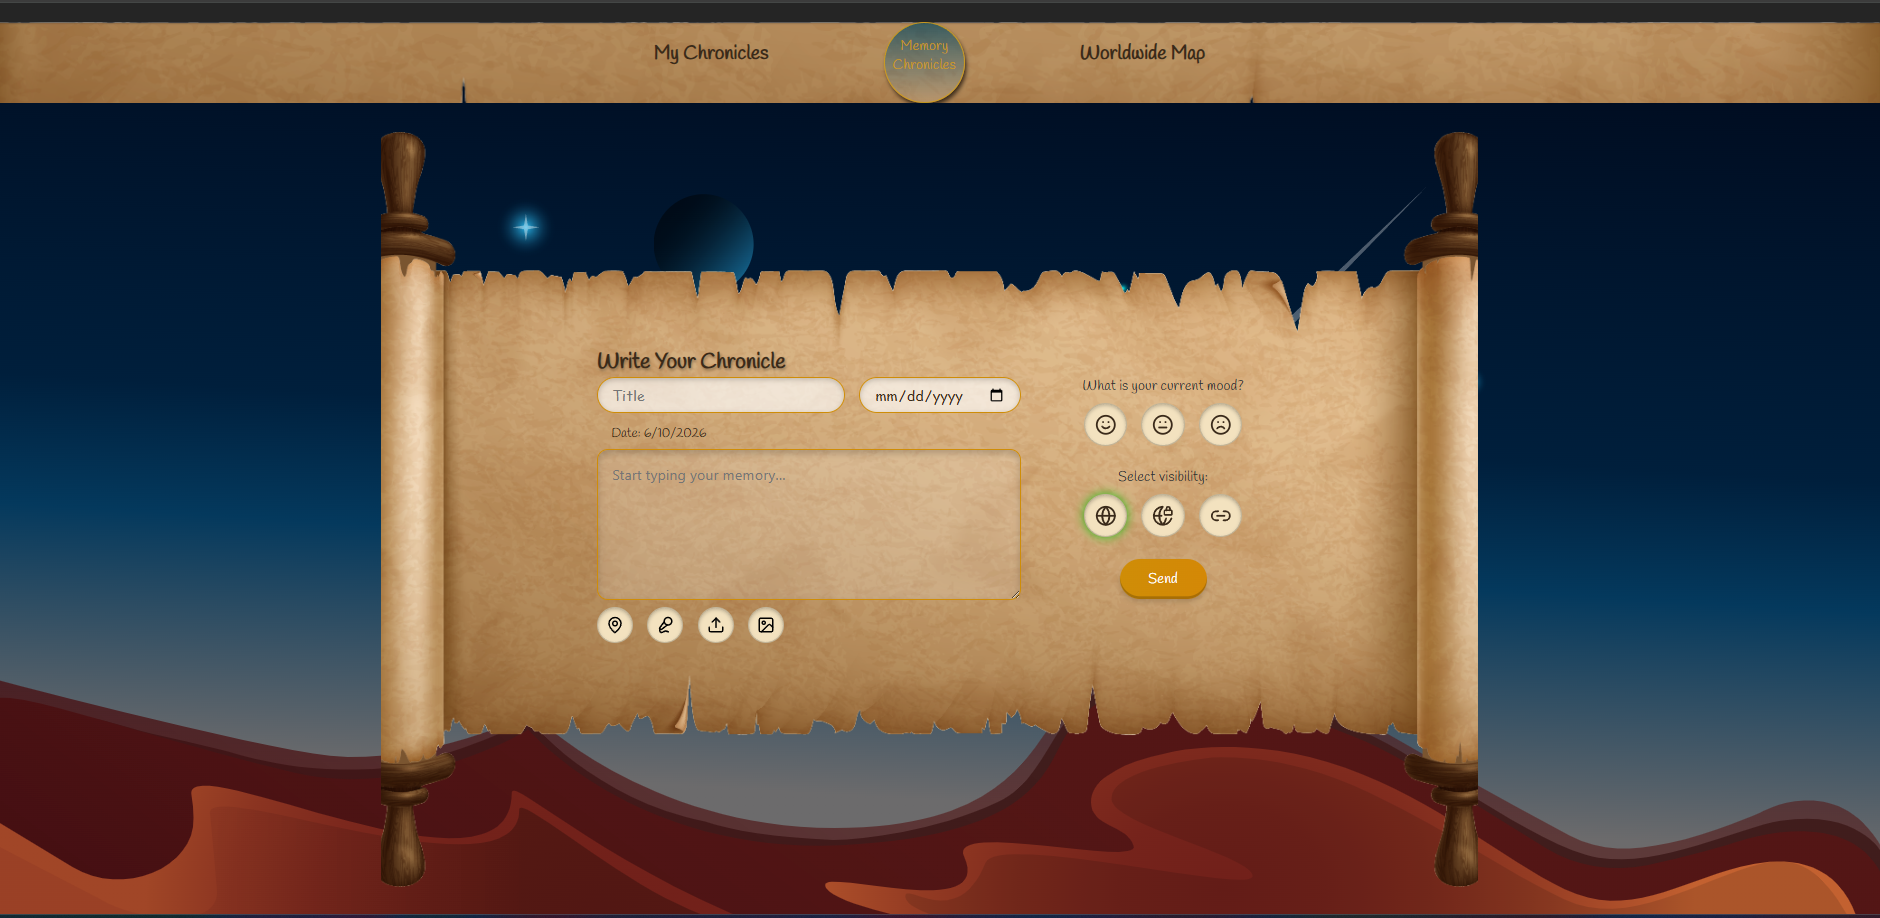
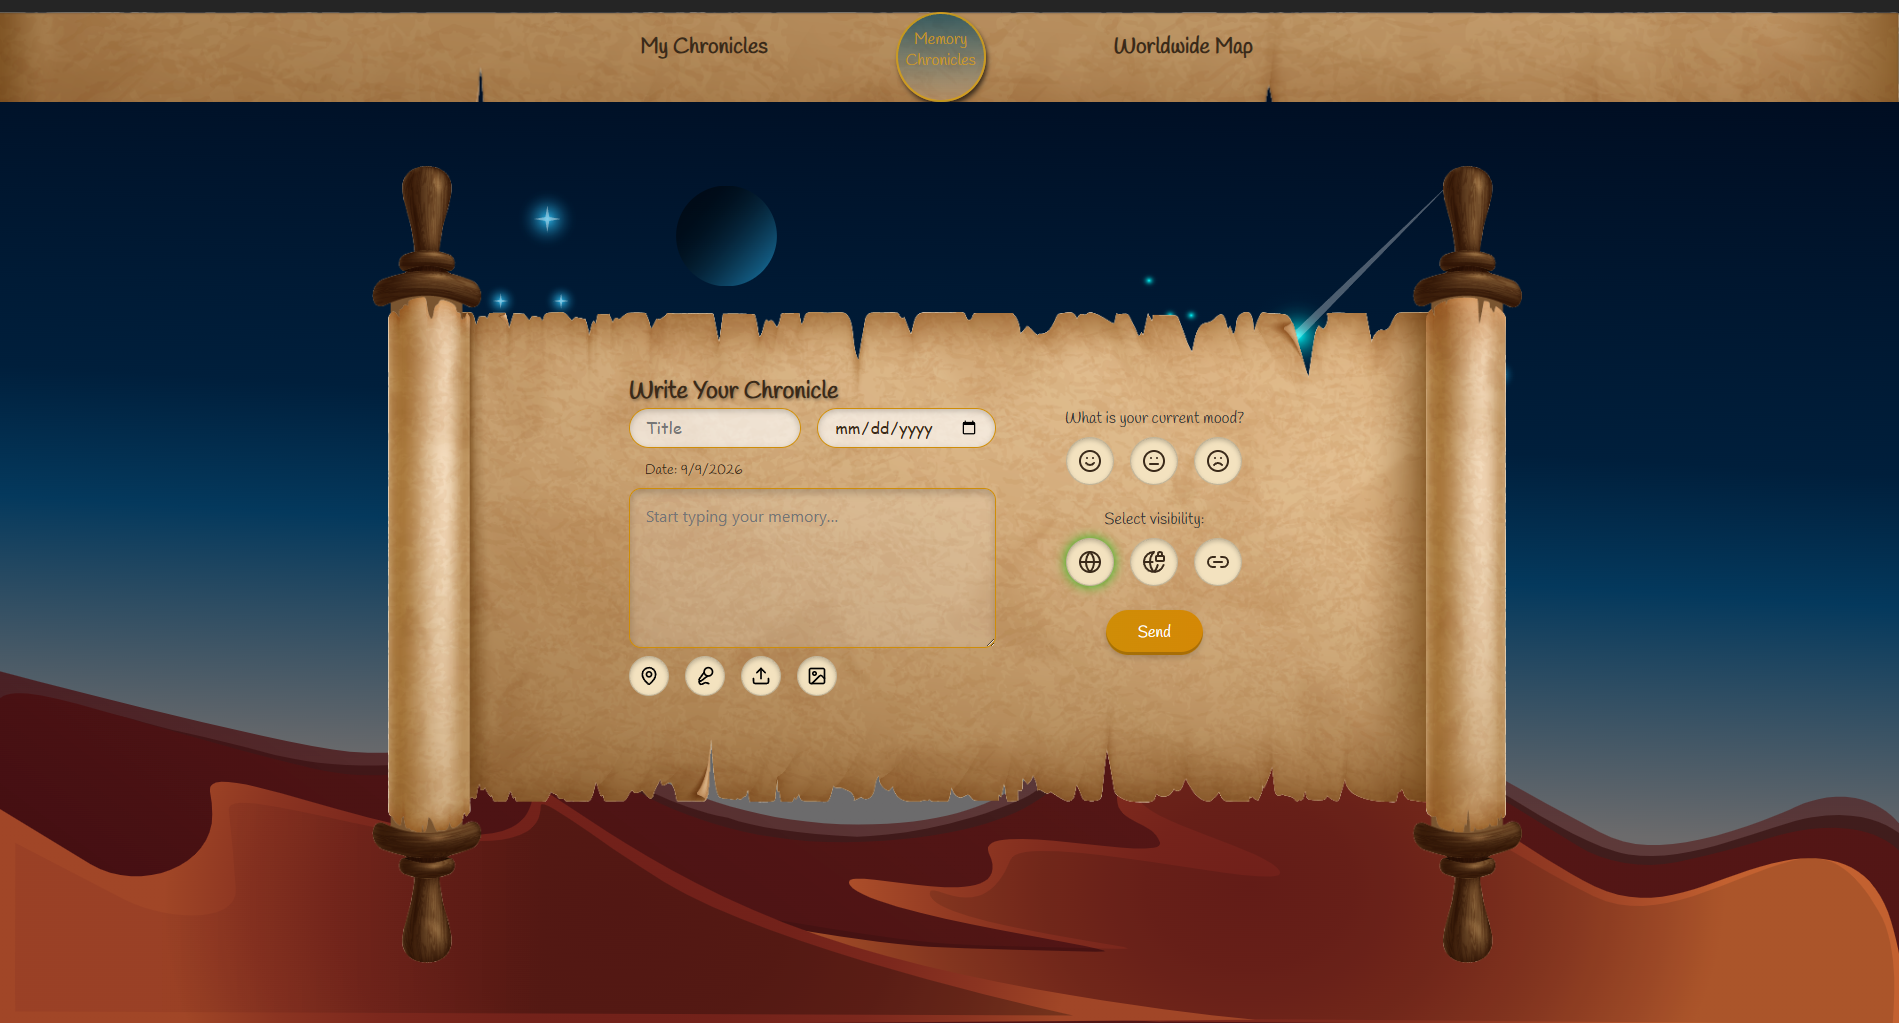
fix: update ScrollFrame component structure and styles for improved layout and responsiveness

diff --git a/frontend/src/components/ScrollFrame/ScrollFrame.module.css b/frontend/src/components/ScrollFrame/ScrollFrame.module.css
@@ -1,23 +1,44 @@
 .ScrollFrame {
+  box-sizing: border-box;
+  width: min(1150px, 94vw);
+  margin: 2rem auto;
 
   display: flex;
   flex-direction: column;
-  background: url("../../assets/images/ScrollPaper.png") center no-repeat;
-  background-size:cover;
-  padding: 15rem;
-  
+
+  /* Match the artwork's real proportions so the background is never cropped. */
+  aspect-ratio: 1295 / 835;
+
+  background: url("../../assets/images/ScrollPaper.png") center / 100% 100% no-repeat;
+
+  /* Percentage padding keeps the writing area inside the parchment
+     (clear of the torn edges and the wooden rollers) at any size. */
+  padding: 11% 13.5% 12%;
+}
+
+/* The form scrolls within the parchment instead of stretching the frame. */
+.content {
+  flex: 1 1 auto;
+  min-height: 0;
+  width: 100%;
+  overflow-y: auto;
+  overflow-x: hidden;
 }
 
 /* Responsive */
 @media (max-width: 900px) {
   .ScrollFrame {
-    flex-direction: column;
+    aspect-ratio: auto;
+    padding: 3rem 2rem;
+  }
+
+  .content {
+    overflow: visible;
   }
 }
 
 @media (max-width: 600px) {
   .ScrollFrame {
-    padding: 1rem;
+    padding: 2.5rem 1.25rem;
   }
-
 }

diff --git a/frontend/src/components/ScrollFrame/ScrollFrame.jsx b/frontend/src/components/ScrollFrame/ScrollFrame.jsx
@@ -3,12 +3,8 @@ import styles from './ScrollFrame.module.css'
 
 export default function ScrollFrame({ children, className = '' }) {
 return (
-    <div
-    className={[styles.ScrollFrame]}>
-            
-            <div className={styles.content}>{children}</div>
-        
-
-        </div>
+    <div className={`${styles.ScrollFrame} ${className}`.trim()}>
+        <div className={styles.content}>{children}</div>
+    </div>
     )
 }

diff --git a/README.md b/README.md
@@ -9,10 +9,11 @@ can browse memories left by others around the globe.
 It is built as a Laravel 12 REST API with a React + Vite single-page frontend.
 
 ## Preview
+![Memory Chronicles Landing Page](./landingPage.png)
 
 ![Memory Chronicles Message Board](./MemoryChronciles.png)
 
-![Memory Chronicles Landing Page](./landingPage.png)
+
 
 ## UX Flow
 
